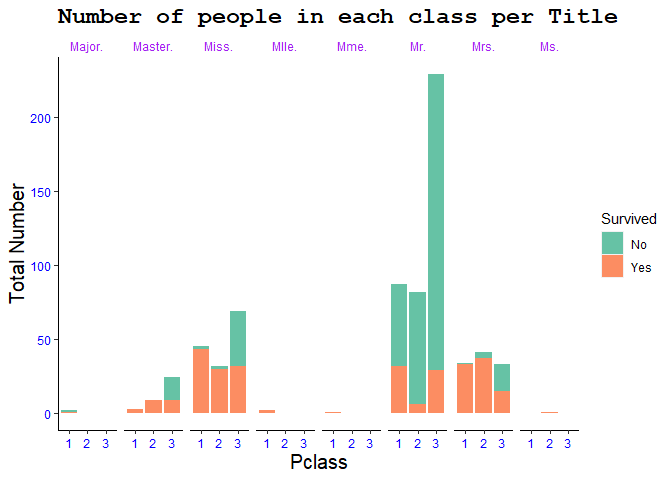
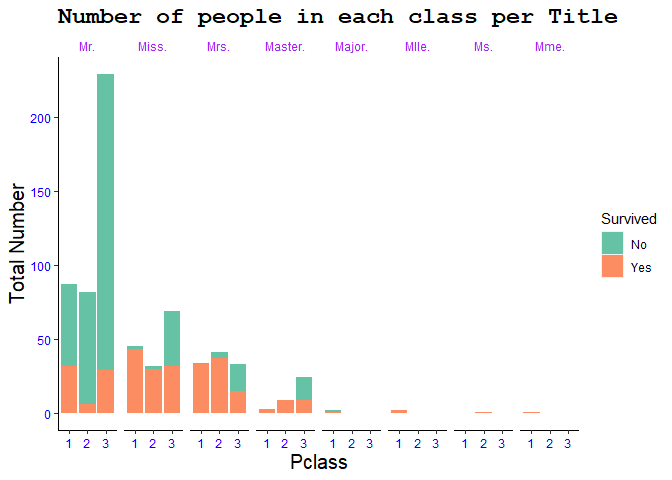
fetched

diff --git a/Titanic-Project.html b/Titanic-Project.html
@@ -396,12 +396,12 @@ train &lt;- read.csv(&quot;train.csv&quot;, header = TRUE)</code></pre>
 <h3>loading the packages</h3>
 <pre class="r"><code>library(stringr)
 library(tidyverse)</code></pre>
-<pre><code>## -- Attaching packages ------------------------------------------------------------------ tidyverse 1.3.0 --</code></pre>
+<pre><code>## -- Attaching packages ------------------------------------------------------------------- tidyverse 1.3.0 --</code></pre>
 <pre><code>## v ggplot2 3.3.0     v purrr   0.3.3
 ## v tibble  2.1.3     v dplyr   0.8.4
 ## v tidyr   1.0.2     v forcats 0.4.0
 ## v readr   1.3.1</code></pre>
-<pre><code>## -- Conflicts --------------------------------------------------------------------- tidyverse_conflicts() --
+<pre><code>## -- Conflicts ---------------------------------------------------------------------- tidyverse_conflicts() --
 ## x dplyr::filter() masks stats::filter()
 ## x dplyr::lag()    masks stats::lag()</code></pre>
 </div>
@@ -595,7 +595,9 @@ ggplot(drop_na(combinedData_all), aes(x = Age)) +
 <ol start="6" style="list-style-type: decimal">
 <li>How are Misses.,Mrs.,Mr. and Masters distributed in classes</li>
 </ol>
-<pre class="r"><code>ggplot(combinedData3, aes(x = Pclass, fill = Survived)) +
+<pre class="r"><code>combinedData3$Title &lt;- factor(combinedData3$Title, 
+                              levels = c(&quot;Mr.&quot;, &quot;Miss.&quot;, &quot;Mrs.&quot;, &quot;Master.&quot;, &quot;Major.&quot;, &quot;Mlle.&quot;, &quot;Ms.&quot;, &quot;Mme.&quot;))
+ggplot(combinedData3, aes(x = Pclass, fill = Survived)) +
   geom_bar(position = &quot;stack&quot;) +
   facet_grid(.~ Title) +
   labs(title = &#39;Number of people in each class per Title&#39;, y = &#39;Total Number&#39;) +
@@ -608,7 +610,7 @@ ggplot(drop_na(combinedData_all), aes(x = Age)) +
         axis.title = element_text(family = &#39;sans&#39;, size = 15),
         plot.title = element_text(family = &#39;mono&#39;, color =  &#39;black&#39;, size = 17, face = &#39;bold&#39;),
         axis.line = element_line(color = &#39;black&#39;))</code></pre>
[2 lines of base64/hex data omitted]
 <p>The plot show us that all majors were in upper class ,there were few masters in upper class than in middle and lower class. Those in upper and middle class all survived while in lower class most people perished than those who survived. There were more ‘Misses’ in lower class than in upper and middle class. Those in lower class had equal chances of surviving and perishing while those in upper and middle class had a higher chance of surviving. Most of those men with title Mr.were in lower class than in other classes and they had low chances of surviving. When we look at the Mrses, they were more in middle class.Those who were in first class had a higher chance of surviving, while those in third class had a equal chance of surviving and perishing. There was only one person with title Ms. who was in second class and unfortunately perished.</p>
 </div>
 <div id="conclusion" class="section level2">

diff --git a/Titanic-Project.md b/Titanic-Project.md
@@ -43,7 +43,7 @@ library(tidyverse)
 ```
 
 ```
-## -- Attaching packages ------------------------------------------------------------------ tidyverse 1.3.0 --
+## -- Attaching packages ------------------------------------------------------------------- tidyverse 1.3.0 --
 ```
 
 ```
@@ -54,7 +54,7 @@ library(tidyverse)
 ```
 
 ```
-## -- Conflicts --------------------------------------------------------------------- tidyverse_conflicts() --
+## -- Conflicts ---------------------------------------------------------------------- tidyverse_conflicts() --
 ## x dplyr::filter() masks stats::filter()
 ## x dplyr::lag()    masks stats::lag()
 ```
@@ -335,6 +335,8 @@ females of age 63 years, Mrses. are married females.
 
 
 ```r
+combinedData3$Title <- factor(combinedData3$Title, 
+                              levels = c("Mr.", "Miss.", "Mrs.", "Master.", "Major.", "Mlle.", "Ms.", "Mme."))
 ggplot(combinedData3, aes(x = Pclass, fill = Survived)) +
   geom_bar(position = "stack") +
   facet_grid(.~ Title) +
